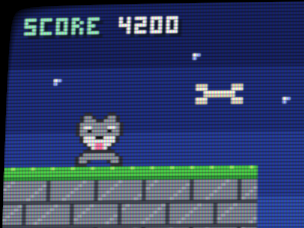
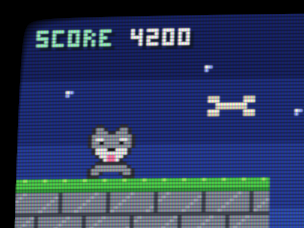
Shader list: CRT Curved's picture shows its curve
The Shader list's picture of each filter is a close-up of the scene's top
left at the handheld's own pixels (tools/shaderdemo.c). CRT Curved's curve
is at the panel's edges: its corners round and dark, its edges bowed. In a
close-up from the panel's very corner, the small screen's frame (its round
inside corner) covered the round, and what was left read as a straight dark
wedge, not the curve the game shows.

Its picture now sets the panel's corner in from the small screen's by 12
units of black, just past the frame's inside corner (DS_RADIUS_ROW -
DS_FRAME, 11), so the CRT's own round corner, bowed edges and dark edge
show whole, still at the panel's pixels and through the same filter as the
game. Every Strength step the same way. The other five filters' pictures
are unchanged.

diff --git a/tools/shaderdemo.c b/tools/shaderdemo.c
@@ -4,9 +4,10 @@
  * no game's art), drawn here at a console's 256x224, through
  * each of Diatom's filters as the handheld draws it, and the top left of it
  * kept at the handheld's own pixels, one image a filter and, for an old
- * screen, a Strength step. Each filter is Diatom's GLSL (diatom/port/pixel2.c)
- * in C, line for line: the same numbers in the same order, in float as the
- * GPU's highp is.
+ * screen, a Strength step. CRT Curved's top left is set in from the
+ * picture's by a few pixels of black, so its curve shows whole. Each filter
+ * is Diatom's GLSL (diatom/port/pixel2.c) in C, line for line: the same
+ * numbers in the same order, in float as the GPU's highp is.
  *
  *     build-native/shaderdemo OUT_DIR
  *
@@ -365,7 +366,7 @@ static v3 shimmerless_cpu(const tap *cx, const tap *cy, int dx, int dy)
 static tap g_cx[2048], g_cy[2048];
 static bool g_cpu;   /* the device draws Sharp-Shimmerless on its CPU (the Brick) */
 
-static int save(const char *dir, const char *dev, filt f, int strength, v2 scale, int cw, int ch)
+static int save(const char *dir, const char *dev, filt f, int strength, v2 scale, int cw, int ch, int inset)
 {
 	char path[512];
 	SDL_Surface *s = SDL_CreateRGBSurfaceWithFormat(0, cw, ch, 24, SDL_PIXELFORMAT_RGB24);
@@ -375,8 +376,11 @@ static int save(const char *dir, const char *dev, filt f, int strength, v2 scale
 		unsigned char *row = (unsigned char *)s->pixels + (size_t)y * s->pitch;
 
 		for (int x = 0; x < cw; x++) {
-			v3 c = f == F_SHIMMERLESS && g_cpu ? shimmerless_cpu(g_cx, g_cy, x, y)
-			                                    : shade(f, x, y, scale, (float)strength / 100.0f);
+			/* `inset` pixels of black above and left of the panel's corner */
+			const int px = x - inset, py = y - inset;
+			v3 c = px < 0 || py < 0 ? (v3){ 0, 0, 0 }
+			     : f == F_SHIMMERLESS && g_cpu ? shimmerless_cpu(g_cx, g_cy, px, py)
+			                                   : shade(f, px, py, scale, (float)strength / 100.0f);
 
 			row[3 * x + 0] = (unsigned char)lroundf(clampf(c.r, 0, 1) * 255.0f);
 			row[3 * x + 1] = (unsigned char)lroundf(clampf(c.g, 0, 1) * 255.0f);
@@ -419,8 +423,8 @@ static int device_set(const char *dir)
 	if (f) fclose(f);
 	g_cpu = false;
 	for (int i = 0; i < F_COUNT; i++) {   /* save() writes DIR/DEV/NAME.png: DEV is "." */
-		bad |= save(dir, ".", (filt)i, 100, scale, 640, 480);
-		if (i >= F_CRT) bad |= save(dir, ".", (filt)i, 50, scale, 640, 480);
+		bad |= save(dir, ".", (filt)i, 100, scale, 640, 480, 0);
+		if (i >= F_CRT) bad |= save(dir, ".", (filt)i, 50, scale, 640, 480, 0);
 	}
 	if (bad) fprintf(stderr, "shaderdemo: %s: could not write the device set\n", dir);
 	return bad;
@@ -458,9 +462,19 @@ int main(int argc, char **argv)
 		mkdir(dir, 0755);
 		for (int f = 0; f < F_COUNT; f++) {
 			if (f >= F_CRT && !DEV[d].gpu) continue;
-			bad |= save(argv[1], DEV[d].id, (filt)f, 100, scale, DEV[d].cw, DEV[d].ch);
+			/* CRT Curved's curve is at the panel's edges: its corner set in
+			 * from the small screen's, past the frame's round inside corner
+			 * (src/design.h: DS_RADIUS_ROW - DS_FRAME, 11 units), so its own
+			 * round corner, bowed edges and dark edge show whole, at the
+			 * panel's pixels like every filter's. A corner at the screen's
+			 * corner hid the round under the frame's, and read as a straight
+			 * dark wedge rather than a curve (1.0.6). */
+			const int inset = f == F_CRT_CURVED ? (int)lroundf(12.0f * DEV[d].ph / 768.0f) : 0;
+
+			bad |= save(argv[1], DEV[d].id, (filt)f, 100, scale, DEV[d].cw, DEV[d].ch, inset);
 			if (f >= F_CRT)
-				for (int s = 10; s < 100; s += 10) bad |= save(argv[1], DEV[d].id, (filt)f, s, scale, DEV[d].cw, DEV[d].ch);
+				for (int s = 10; s < 100; s += 10)
+					bad |= save(argv[1], DEV[d].id, (filt)f, s, scale, DEV[d].cw, DEV[d].ch, inset);
 		}
 	}
 	return bad;

diff --git a/src/shaderdemo.h b/src/shaderdemo.h
@@ -22,7 +22,8 @@ void shader_demo_notes(const char **out, int n);
 void shader_demo_strength_notes(const char **out, int steps);
 
 /* Shader `shader` at `strength` percent in the preview's box (units), its
- * close-up at the handheld's own pixels, the small screen framed */
+ * close-up at the handheld's own pixels, the small screen framed. CRT
+ * Curved's has its corner set in, with black round it, so its curve shows */
 void shader_demo_draw(app *a, int shader, int strength, int x, int y, int w, int h);
 
 #endif
